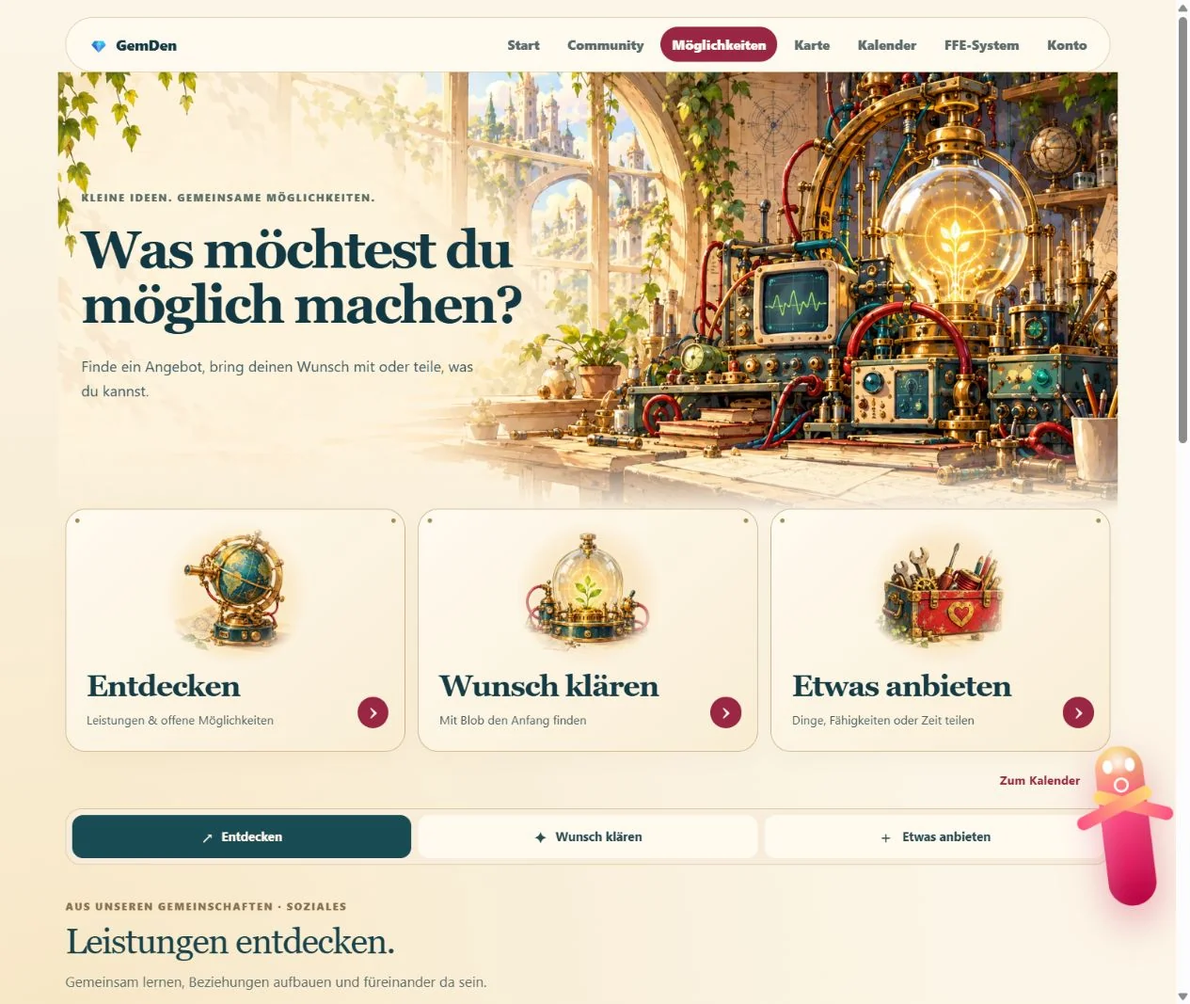
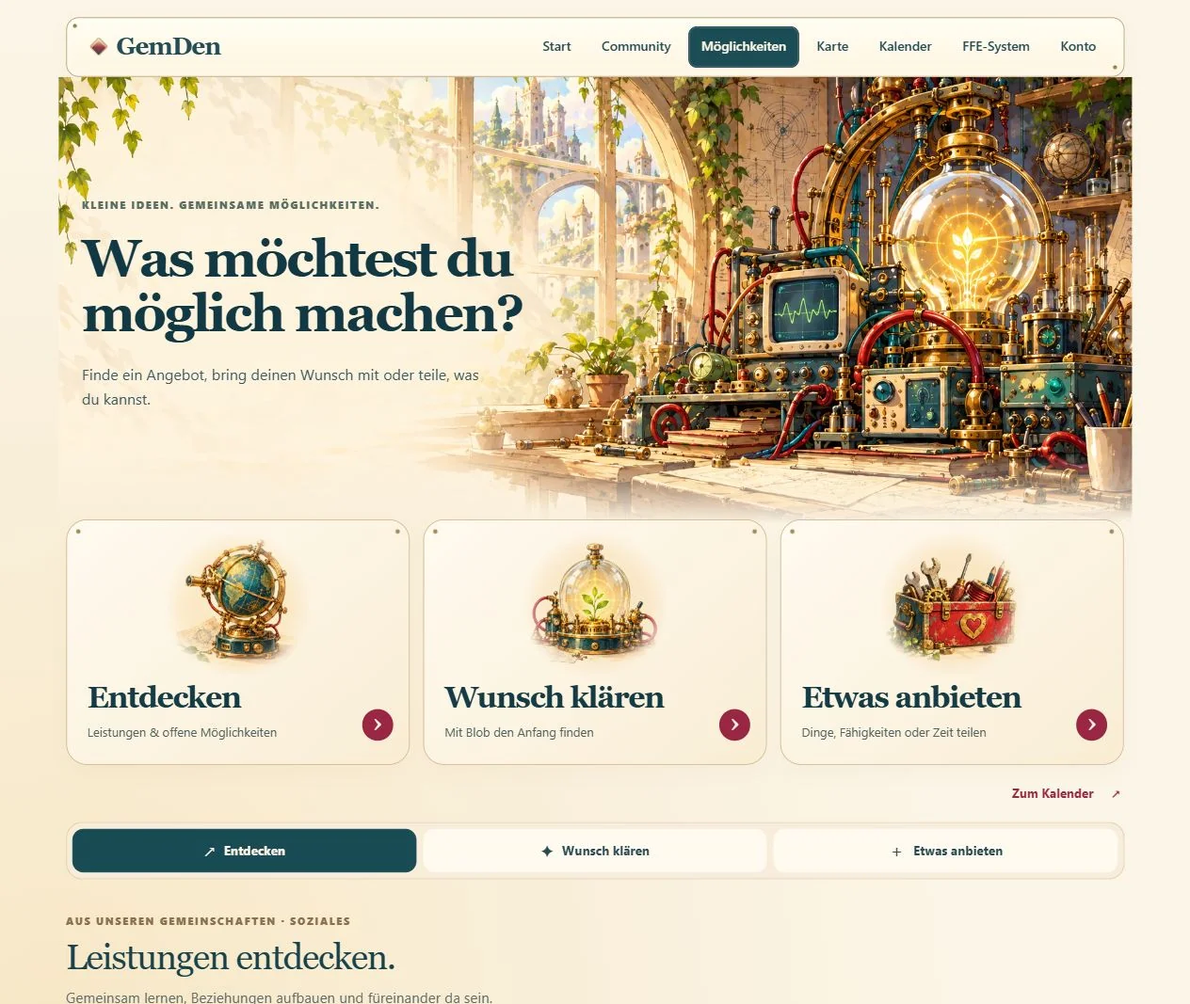
Community-Bildwelt großzügiger gestalten und Hauptmenüs abstimmen

diff --git a/community/therme.css b/community/therme.css
@@ -1,15 +1,190 @@
-/* Die schwebende Therme: eine Bildwelt für die Community. */
-.community-overview{--community-ink:#254e48;--community-muted:#5c7169;--community-line:#d8ded0;--ruby:#8b2d4a;--ruby-deep:#70213b;background:radial-gradient(ellipse at 90% 48%,#e7eeE4,transparent 50rem),#faf6eb;color:var(--community-ink)}
-.community-overview .site-shell{max-width:1240px}.community-overview .site-nav{position:relative;z-index:2;margin-bottom:0;background:#fffdf5e8;border-color:#dbddcd}.community-overview .site-mark{color:var(--community-ink)}
-.community-hero{position:relative;isolation:isolate;display:flex;align-items:center;min-height:580px;padding:65px 30px 72px;margin:0 -12px}.community-hero-art{position:absolute;inset:0 -30px;z-index:-1;pointer-events:none;mask-image:linear-gradient(#000 85%,transparent)}.community-hero-art img{width:100%;height:100%;display:block;object-fit:cover;object-position:center}.community-hero-copy{max-width:440px;min-width:0}.community-hero-copy .eyebrow{margin:0 0 18px;color:#5b776b;letter-spacing:.19em;font-size:.72rem}.community-hero-copy h1{font:500 clamp(3.4rem,5.1vw,4.7rem)/1.01 Georgia,serif;letter-spacing:-.055em;margin:0 0 23px;color:var(--community-ink)}.community-hero-copy>p:not(.eyebrow){max-width:350px;font-size:.96rem;line-height:1.7;margin:0 0 24px;color:#4f655c}.community-hero-copy .button-row{gap:9px}.community-overview .community-hero-copy .button{min-height:46px;padding:12px 17px;border-radius:13px;font-size:.79rem;box-shadow:0 7px 18px #70213b12;background:#8b2d4a;color:#fff9ed;gap:12px}.community-overview .community-hero-copy .button.secondary{border:1px solid #bfcbbc;background:#fffdf4d9;color:var(--community-ink);box-shadow:none}.community-hero-copy .button:hover{background:#70213b}.community-overview .community-hero-copy .button.secondary:hover{background:#e6eddf}
-.community-portals{display:grid;grid-template-columns:repeat(4,minmax(0,1fr));gap:13px;position:relative;margin:0 0 30px;scroll-margin-top:22px}.community-portal{display:grid;grid-template-rows:112px 1fr;position:relative;gap:16px;padding:18px 19px 23px;border:1px solid #d9ddcd;border-radius:27px;background:#fffdf4;box-shadow:0 12px 28px #31594a06;text-decoration:none;color:var(--community-ink);min-width:0;transition:border-color .16s,transform .16s}.community-portal:hover{border-color:#789581;transform:translateY(-3px)}.community-portal-art{display:block;overflow:hidden;position:relative;border-radius:50%;width:100%;max-width:200px;height:112px;justify-self:center;background:#e6e6d5}.community-portal-art img{display:block;width:100%;height:100%;object-fit:cover}.portal-kieze .community-portal-art img{width:195%;max-width:none;object-position:right;transform:translateX(-47%)}.portal-dynastien .community-portal-art{background:#f0e5d8}.portal-dynastien .community-portal-art img{object-position:center 55%}.portal-leistungen .community-portal-art img{object-position:center 45%}.portal-menschen .community-portal-art img{object-position:75% 12%;height:230%;max-height:none}.community-portal-copy{display:grid;align-content:start;gap:8px;min-width:0}.community-portal-copy strong{font:500 clamp(1.55rem,2.2vw,2rem)/1.15 Georgia,serif;letter-spacing:-.03em}.community-portal-copy>span{font-size:.8rem;line-height:1.55;max-width:195px}.community-portal-copy small{font-size:.69rem;color:#697a6c;line-height:1.5;padding-top:3px;padding-right:10px}.community-portal-arrow{position:absolute;bottom:20px;right:15px;font-size:1.05rem;color:#71836a}
-.community-sections{top:8px;margin-bottom:4px;border-color:#d8dece;background:#e9eee3eb;backdrop-filter:blur(12px)}.community-sections a{background:#fffdf5;color:var(--community-ink)}.community-overview .section{padding-top:42px}.community-overview .section-head .eyebrow{color:#6c826c}.community-overview .section-head h2{font-weight:400}.community-overview .section-head p:not(.eyebrow){color:var(--community-muted)}.community-kiez-card{border-color:#d4ddc9;background:#e5ebdb}.community-kiez-card-travel{border-color:#e2d3b8;background:#f1e4cc}.community-location,.community-member,.community-overview .service-card{background:#fffdf4;border-color:#d9dece}.community-dynasty{background:#82324b;border-color:#82324b}.community-dynasty-main:hover{background:#743044}.community-dynasty-service{background:#742940}.community-overview .service-category{color:#476c58;background:#e5ecde}.community-service-routes a{background:#edf0e4}.community-overview .community-background{padding-top:12px}.community-overview .source-fold{background:#f4f2e8;border-color:#d9dece}.community-overview .footer{border-color:#d9dece}
-.community-hero-art:after{content:"";position:absolute;inset:0;background:linear-gradient(90deg,#faf6eb80,transparent 55%)}
-@media(min-width:761px){.community-hero{overflow:clip}}
-@media(min-width:1500px){.community-hero-art{inset:0 -65px}}
-@media(max-width:1000px) and (min-width:761px){.community-hero{min-height:525px;padding:54px 18px}.community-hero-copy{max-width:380px}.community-hero-copy h1{font-size:3.6rem}.community-hero-copy>p:not(.eyebrow){max-width:305px;font-size:.9rem}.community-hero-art:after{content:"";position:absolute;inset:0;background:linear-gradient(90deg,#faf6ebaa,transparent 62%)}.community-portal{padding:15px 13px 20px;gap:13px;grid-template-rows:88px 1fr;border-radius:23px}.community-portal-art{height:88px}.community-portal-copy strong{font-size:1.6rem}.community-portal-copy>span{font-size:.74rem}.community-portal-copy small{font-size:.65rem}.community-portals{gap:9px}}
-@media(max-width:760px){.community-overview .site-shell{padding-left:18px;padding-right:18px}.community-hero{display:flex;flex-direction:column;align-items:stretch;min-height:0;padding:0;margin:0 0 25px}.community-hero-art{position:relative;inset:auto;z-index:auto;height:310px;margin:0 -18px;mask-image:linear-gradient(#000 78%,transparent)}.community-hero-art img{object-fit:cover;object-position:center 44%}.community-hero-copy{max-width:100%;padding:0 6px;margin-top:-14px;position:relative}.community-hero-copy h1{font-size:clamp(2.9rem,7vw,3.8rem);line-height:1.02;margin-bottom:17px;letter-spacing:-.05em}.community-hero-copy .eyebrow{font-size:.66rem;margin-bottom:14px}.community-hero-copy>p:not(.eyebrow){font-size:.9rem;line-height:1.65;max-width:400px;margin-bottom:19px}.community-overview .community-hero-copy .button{padding:12px 14px;font-size:.76rem}.community-portals{grid-template-columns:1fr 1fr;gap:12px;margin-bottom:24px}.community-portal{grid-template-rows:105px 1fr;padding:15px 17px 21px;gap:12px;border-radius:23px}.community-portal-art{height:105px}.community-portal-copy strong{font-size:1.8rem}.community-portal-copy>span{font-size:.79rem}.community-portal-copy small{font-size:.68rem}.community-overview .section{padding-top:32px}}
-@media(max-width:480px){.community-hero-art{height:262px}.community-hero-copy{padding:0 4px}.community-hero-copy h1{font-size:clamp(2.55rem,11.7vw,3.3rem)}.community-portals{grid-template-columns:1fr;gap:9px}.community-portal{grid-template-columns:91px minmax(0,1fr) 14px;grid-template-rows:auto;align-items:center;gap:15px;padding:15px 17px 15px 13px;border-radius:22px;min-height:112px}.community-portal-art{height:72px;width:91px}.community-portal-copy{gap:5px}.community-portal-copy strong{font-size:1.6rem}.community-portal-copy>span{font-size:.75rem;line-height:1.45}.community-portal-copy small{font-size:.64rem;padding:0}.community-portal-arrow{position:static;font-size:1.1rem}.community-overview .section{padding-top:27px}.community-sections{top:5px;margin-bottom:2px}.community-overview .source-fold{padding:14px 16px}}
-@media(max-width:359px){.community-hero-art{height:230px}.community-hero-copy>p:not(.eyebrow){font-size:.85rem}.community-hero-copy .button-row{gap:8px}.community-overview .community-hero-copy .button{font-size:.69rem;padding:11px 12px;gap:8px}.community-portal{grid-template-columns:72px minmax(0,1fr) 12px;gap:11px;padding:13px 12px;min-height:104px}.community-portal-art{width:72px;height:66px}.community-portal-copy strong{font-size:1.5rem}.community-portal-copy>span{font-size:.71rem}.community-portal-copy small{font-size:.61rem}}
-@media(max-width:760px){.community-hero-art:after{display:none}}
-@media(prefers-reduced-motion:reduce){.community-portal{transition:none}.community-portal:hover{transform:none}}
+/* Die schwebende Therme: Panorama und bebilderte Wege durch die Community. */
+.community-overview {
+  --community-ink:#254e48; --community-muted:#526b62; --community-line:#ced7bf;
+  --ink:#254e48; --muted:#526b62; --line:#ced7bf; --ruby:#8b2d4a; --ruby-deep:#70213b;
+  background:linear-gradient(180deg,#faf3e5 0%,#edf1e6 43%,#faf2e1 100%);
+  color:var(--community-ink);
+}
+.community-overview .site-shell {width:min(1560px,100%);max-width:none;padding:18px 32px 100px}
+.community-overview .site-nav {margin-bottom:0;position:relative;z-index:2}
+.community-hero {position:relative;isolation:isolate;display:flex;align-items:center;min-height:640px;padding:64px 42px 90px;margin:0 -20px}
+.community-hero-art {position:absolute;inset:0 -20px;z-index:-1;pointer-events:none;mask-image:linear-gradient(#000 88%,transparent)}
+.community-hero-art img {display:block;width:100%;height:100%;object-fit:cover;object-position:64% center}
+.community-hero-art:after {content:"";position:absolute;inset:0;background:linear-gradient(90deg,#faf3e52e,transparent 45%)}
+.community-hero-copy {max-width:470px;min-width:0;position:relative}
+.community-hero-copy .eyebrow {margin:0 0 18px;color:#4f6b5d;letter-spacing:.18em;font-size:.74rem}
+.community-hero-copy h1 {font:500 clamp(3.5rem,5vw,4.9rem)/1.02 Georgia,serif;letter-spacing:-.055em;color:var(--community-ink);margin:0 0 23px}
+.community-hero-copy>p:not(.eyebrow) {max-width:370px;font-size:1rem;line-height:1.7;margin:0 0 25px;color:#435f55}
+.community-hero-copy .button-row {gap:10px}
+.community-overview .community-hero-copy .button {min-height:47px;padding:13px 18px;border-radius:12px;font-size:.83rem;background:#8b2d4a;color:#fff9ed;box-shadow:0 6px 18px #70213b10;gap:12px}
+.community-overview .community-hero-copy .button.secondary {background:#fffaf0e8;color:#254e48;border:1px solid #a7b797;box-shadow:none}
+.community-overview .community-hero-copy .button:hover {background:#70213b}
+.community-overview .community-hero-copy .button.secondary:hover {background:#e5eddd}
+.community-portals {position:relative;display:grid;grid-template-columns:repeat(4,minmax(0,1fr));gap:16px;margin:-26px 0 28px;scroll-margin-top:24px}
+.community-portal {position:relative;display:grid;grid-template-rows:180px 1fr;gap:0;padding:0;border:1px solid #c4cfb3;border-radius:25px;overflow:hidden;background:#fffaf0;box-shadow:0 10px 26px #36543c0b;color:#254e48;text-decoration:none;min-width:0;transition:transform .16s,border-color .16s}
+.community-portal:hover {transform:translateY(-3px);border-color:#6f8b69}
+.community-portal-art {display:block;position:relative;width:100%;height:180px;overflow:hidden;background:#d6e2d0}
+.community-portal-art img {display:block;width:100%;height:100%;object-fit:cover}
+.portal-kieze .community-portal-art img {object-position:right center}
+.portal-dynastien .community-portal-art img {object-position:center 55%}
+.portal-leistungen .community-portal-art img {object-position:center 72%}
+.portal-menschen .community-portal-art img {object-position:center 14%}
+.community-portal-copy {display:grid;align-content:start;gap:9px;min-width:0;padding:21px 22px 26px}
+.community-portal-copy strong {font:500 clamp(1.6rem,2.5vw,2.15rem)/1.12 Georgia,serif;letter-spacing:-.035em}
+.community-portal-copy>span {font-size:.88rem;line-height:1.55;padding-right:5px}
+.community-portal-copy small {font-size:.76rem;line-height:1.5;color:#5c725f;padding:4px 17px 0 0}
+.community-portal-arrow {position:absolute;bottom:22px;right:17px;font-size:1.1rem;color:#526f55}
+.community-sections {max-width:1400px;margin:0 auto 4px;top:8px;padding:6px;border:1px solid #b5c09f;background:#e7ecdcf5;backdrop-filter:blur(10px);border-radius:17px}
+.community-sections a {border-radius:11px;background:#fffaf0;font-size:.88rem;font-weight:650;color:#315c4e}
+.community-sections a:hover {background:#d3e0c9}
+.community-overview .section {max-width:1400px;margin-inline:auto;padding-top:44px;scroll-margin-top:92px}
+.community-overview .section-head {margin-bottom:22px}
+.community-overview .section-head h2 {font-weight:400}
+.community-overview .section-head .eyebrow {color:#647953}
+.community-overview .section-head p:not(.eyebrow) {color:#526b62;max-width:760px}
+.community-neighborhoods {gap:18px}
+.community-kiez-card {grid-template-columns:minmax(0,.9fr) minmax(0,1.2fr);gap:0;padding:0;min-height:238px;border-radius:26px;border-color:#bfceaf;background:#e2ebd8;overflow:hidden}
+.community-kiez-card-travel {background:#f2e4c9;border-color:#d7c098;color:#675135}
+.community-kiez-card .community-card-art {display:block;position:relative;align-self:stretch;width:100%;height:auto;min-height:238px}
+.community-kiez-card .community-card-art img {position:absolute;inset:0;display:block;width:100%;height:100%;object-fit:cover;object-position:right center}
+.community-kiez-card-travel .community-card-art img {object-position:center 53%}
+.community-kiez-card .community-card-copy {padding:27px 25px;gap:12px}
+.community-kiez-card .community-card-copy h3 {font-size:2rem}
+.community-kiez-card .community-card-copy>span {font-size:.91rem}
+.community-kiez-card .community-card-copy>b {font-size:.85rem}
+.community-location {margin-top:15px;padding:20px 24px;border-radius:19px;border-color:#c8d1b9;background:#fff8e9;min-height:76px}
+.community-location strong {font-size:1.45rem}
+.community-location small {font-size:.84rem}
+.community-dynasty {border-radius:28px;border-color:#87425a;background:#82324b}
+.community-dynasty-main {grid-template-columns:1fr 1fr;min-height:280px;gap:0;padding:0}
+.community-dynasty-main:hover {background:#762c43}
+.community-dynasty-main .community-card-copy {padding:38px;gap:16px}
+.community-dynasty-main .community-card-copy h3 {font-size:clamp(2.5rem,4vw,3.6rem)}
+.community-dynasty-main .community-card-copy>span {font-size:1rem;color:#fae8e4}
+.community-dynasty-main .community-card-copy>b {font-size:.9rem}
+.community-ruby-art {display:block;position:relative;align-self:stretch;min-height:280px;overflow:hidden}
+.community-ruby-art img {position:absolute;inset:0;display:block;width:100%;height:100%;object-fit:cover;object-position:center 55%;mask-image:linear-gradient(90deg,transparent,#000 18%)}
+.community-dynasty-service {padding:12px 30px;background:#6c253d}
+.community-dynasty-service>span {font-size:.83rem}
+.community-dynasty-service a {font-size:.95rem}
+.community-overview #leistungen {margin-top:38px;padding:32px;border:1px solid #c6d3b8;border-radius:29px;background:linear-gradient(125deg,#e3eddb,#fbf4e5)}
+.community-overview .service-card {background:#fffaf0;border-color:#d1d2b9;border-radius:23px}
+.community-overview .service-category {background:#e1ead7;color:#456540}
+.community-service-routes {gap:9px}
+.community-service-routes a {background:#fff9ec;border-color:#bbc8ab;min-height:46px;font-size:.84rem}
+.community-member {background:#fffaf0;border-color:#c7d1b5;padding:26px;border-radius:24px}
+.community-member-art {padding:4px;border-radius:50%;background:#e6eddb}
+.community-own-page {padding:29px 30px;margin-top:17px;background:#e4ecda;border:1px solid #c8d3b9;border-radius:25px}
+.community-own-page strong {font-size:1.65rem}
+.community-own-page p {font-size:.94rem}
+.community-own-page .button {background:#8b2d4a;color:#fff9ed;border-color:#8b2d4a}
+.community-own-page .button.secondary {background:#fffaf0;color:#254e48;border-color:#b1bf9d}
+.community-overview .community-background {padding-top:28px}
+.community-overview .source-fold {background:#f9f3e6;border-color:#c9cfb5}
+.community-overview .footer {max-width:1400px;margin-inline:auto;border-color:#b9c6a7}
+@media(min-width:761px) {.community-hero{overflow:clip}}
+@media(min-width:1450px) {.community-hero{min-height:690px}}
+@media(max-width:1100px) and (min-width:761px) {
+  .community-overview .site-shell{padding-inline:22px}
+  .community-hero{min-height:570px;padding:52px 27px 78px;margin-inline:-12px}
+  .community-hero-copy{max-width:390px}
+  .community-hero-copy h1{font-size:3.7rem}
+  .community-hero-copy>p:not(.eyebrow){max-width:320px;font-size:.94rem}
+  .community-hero-art:after{background:linear-gradient(90deg,#faf3e577,transparent 62%)}
+  .community-portals{grid-template-columns:repeat(2,minmax(0,1fr));gap:15px}
+  .community-portal{grid-template-rows:170px 1fr}
+  .community-portal-art{height:170px}
+  .community-portal-copy{padding:20px 22px}
+  .community-kiez-card{grid-template-columns:minmax(0,.8fr) minmax(0,1.1fr)}
+  .community-kiez-card .community-card-copy{padding:23px 19px}
+  .community-kiez-card .community-card-copy h3{font-size:1.8rem}
+  .community-kiez-card .community-card-copy>span{font-size:.85rem}
+}
+@media(max-width:760px) {
+  .community-overview .site-shell{padding:10px 14px 100px}
+  .community-hero{display:flex;flex-direction:column;align-items:stretch;min-height:0;padding:0;margin:0 0 31px}
+  .community-hero-art{position:relative;inset:auto;z-index:auto;height:405px;margin:0 -14px;mask-image:linear-gradient(#000 64%,#000b 78%,transparent)}
+  .community-hero-art img{object-position:center 47%}
+  .community-hero-art:after{display:none}
+  .community-hero-copy{position:relative;max-width:560px;padding:0 7px;margin-top:-87px}
+  .community-hero-copy .eyebrow{font-size:.67rem;letter-spacing:.14em;margin-bottom:13px;display:table;padding:5px 8px;margin-left:-8px;border-radius:6px;background:#faf3e5eb}
+  .community-hero-copy h1{font-size:clamp(2.7rem,10.8vw,3.8rem);line-height:1.02;margin-bottom:18px}
+  .community-hero-copy>p:not(.eyebrow){max-width:450px;font-size:.94rem;line-height:1.65;margin-bottom:20px}
+  .community-hero-copy .button-row{display:grid;grid-template-columns:1.15fr .85fr;gap:9px}
+  .community-overview .community-hero-copy .button{width:100%;padding:12px 10px;min-height:47px;font-size:.78rem;gap:7px;justify-content:center}
+  .community-portals{grid-template-columns:repeat(2,minmax(0,1fr));gap:12px;margin:0 0 24px}
+  .community-portal{grid-template-rows:136px 1fr;border-radius:21px}
+  .community-portal-art{height:136px}
+  .community-portal-copy{padding:16px 14px 21px;gap:8px}
+  .community-portal-copy strong{font-size:1.65rem}
+  .community-portal-copy>span{font-size:.82rem;padding:0}
+  .community-portal-copy small{font-size:.73rem;padding:2px 9px 0 0}
+  .community-portal-arrow{bottom:15px;right:12px;font-size:.98rem}
+  .community-sections{top:5px;gap:4px;padding:5px;border-radius:14px}
+  .community-sections a{min-height:46px;padding:9px 3px;font-size:.77rem;border-radius:9px}
+  .community-overview .section{padding-top:33px}
+  .community-neighborhoods{grid-template-columns:1fr;gap:14px}
+  .community-kiez-card{grid-template-columns:minmax(0,.7fr) minmax(0,1.1fr);min-height:206px}
+  .community-kiez-card .community-card-art{width:100%;min-height:206px;justify-self:stretch}
+  .community-kiez-card .community-card-copy{padding:22px 20px;gap:10px}
+  .community-kiez-card .community-card-copy h3{font-size:1.85rem}
+  .community-kiez-card .community-card-copy>span{font-size:.85rem;line-height:1.6}
+  .community-kiez-card .community-card-copy>b{font-size:.8rem}
+  .community-location{padding:18px 20px}
+  .community-location strong{font-size:1.35rem}
+  .community-location small{font-size:.8rem}
+  .community-dynasty-main{grid-template-columns:1fr;min-height:0}
+  .community-ruby-art{order:-1;height:195px;min-height:195px}
+  .community-ruby-art img{mask-image:linear-gradient(#000 88%,transparent);object-position:center 58%}
+  .community-dynasty-main .community-card-copy{padding:25px;gap:12px}
+  .community-dynasty-main .community-card-copy h3{font-size:2.55rem}
+  .community-dynasty-main .community-card-copy>span{font-size:.93rem}
+  .community-dynasty-service{padding:12px 24px;gap:3px}
+  .community-dynasty-service>span{font-size:.78rem}
+  .community-overview #leistungen{margin-top:29px;padding:25px 19px;border-radius:24px}
+  .community-overview .service-card{padding:21px}
+  .community-service-routes a{font-size:.79rem}
+  .community-member{padding:21px;gap:16px}
+  .community-own-page{padding:24px;margin-top:14px}
+  .community-own-page strong{font-size:1.5rem}
+  .community-own-page p{font-size:.88rem}
+  .community-own-page .button-row{width:100%}
+  .community-own-page .button{font-size:.82rem}
+}
+@media(max-width:480px) {
+  .community-hero-art{height:370px}
+  .community-hero-copy{margin-top:-75px;padding-inline:5px}
+  .community-hero-copy h1{font-size:clamp(2.55rem,11.3vw,3.1rem)}
+  .community-hero-copy>p:not(.eyebrow){font-size:.9rem}
+  .community-overview .community-hero-copy .button{font-size:.73rem;padding-inline:8px}
+  .community-portal{grid-template-rows:119px 1fr}
+  .community-portal-art{height:119px}
+  .community-portal-copy{padding:15px 13px 20px;gap:7px}
+  .community-portal-copy strong{font-size:1.43rem}
+  .community-portal-copy>span{font-size:.8rem}
+  .community-portal-copy small{font-size:.71rem}
+}
+@media(max-width:359px) {
+  .community-hero-art{height:335px}
+  .community-hero-copy{margin-top:-65px;padding-inline:3px}
+  .community-hero-copy h1{font-size:2.5rem}
+  .community-hero-copy .eyebrow{font-size:.62rem}
+  .community-hero-copy>p:not(.eyebrow){font-size:.87rem}
+  .community-overview .community-hero-copy .button{font-size:.67rem;gap:4px;padding-inline:5px}
+  .community-portals{gap:9px}
+  .community-portal{grid-template-rows:105px 1fr;border-radius:18px}
+  .community-portal-art{height:105px}
+  .community-portal-copy{padding:13px 11px 18px}
+  .community-portal-copy strong{font-size:1.28rem}
+  .community-portal-copy>span{font-size:.76rem}
+  .community-portal-copy small{font-size:.68rem}
+  .community-sections a{font-size:.7rem}
+  .community-kiez-card .community-card-copy{padding:21px 15px}
+  .community-kiez-card .community-card-copy h3{font-size:1.6rem}
+  .community-kiez-card .community-card-copy>span{font-size:.81rem}
+  .community-member{padding:18px}
+}
+@media(prefers-reduced-motion:reduce) {
+  .community-portal{transition:none}
+  .community-portal:hover{transform:none}
+}

diff --git a/community/index.html b/community/index.html
@@ -10,7 +10,8 @@
   <link rel="stylesheet" href="../assets/worlds.css?v=20261019-1">
   <link rel="stylesheet" href="../assets/services.css?v=20261014-1">
   <link rel="stylesheet" href="./overview.css?v=20261020-1">
-  <link rel="stylesheet" href="./therme.css?v=20261020-1">
+  <link rel="stylesheet" href="./therme.css?v=20261020-2">
+  <link rel="stylesheet" href="../assets/scene-navigation.css?v=20261020-1">
 </head>
 <body class="world-community community-overview" data-area="community" data-blob-mode="social">
   <a class="skip-link" href="#inhalt">Zum Inhalt</a>
@@ -20,7 +21,7 @@
       <header class="community-hero">
         <picture class="community-hero-art" aria-hidden="true">
           <source media="(max-width:760px)" srcset="../assets/community/floating-garden-mobile-480.webp 480w, ../assets/community/floating-garden-mobile-800.webp 800w" sizes="100vw" width="800" height="1000">
-          <img src="../assets/community/floating-garden-desktop-1200.webp" srcset="../assets/community/floating-garden-desktop-1200.webp 1200w, ../assets/community/floating-garden-desktop-1860.webp 1860w" sizes="(max-width:1200px) 100vw, 1200px" width="1860" height="845" alt="" fetchpriority="high">
+          <img src="../assets/community/floating-garden-desktop-1200.webp" srcset="../assets/community/floating-garden-desktop-1200.webp 1200w, ../assets/community/floating-garden-desktop-1860.webp 1860w" sizes="(max-width:1560px) 100vw, 1560px" width="1860" height="845" alt="" fetchpriority="high">
         </picture>
         <div class="community-hero-copy">
           <p class="eyebrow">Unsere Community</p>
@@ -31,7 +32,7 @@
       </header>
       <nav class="community-portals" id="community-entdecken" aria-label="Dein Weg in die Community">
         <a class="community-portal portal-kieze" href="#kieze">
-          <span class="community-portal-art" aria-hidden="true"><img src="../assets/community/floating-garden-desktop-1200.webp" alt="" width="1200" height="545" loading="lazy"></span>
+          <span class="community-portal-art" aria-hidden="true"><img src="../assets/community/floating-garden-desktop-480.webp" srcset="../assets/community/floating-garden-desktop-480.webp 480w, ../assets/community/floating-garden-desktop-1200.webp 1200w" sizes="(max-width:1100px) 50vw, 25vw" alt="" width="480" height="218" loading="lazy"></span>
           <span class="community-portal-copy"><strong>Kieze</strong><span>Nachbarschaft, die verbindet.</span><small>P‑Hain · Travelkiez</small></span><span class="community-portal-arrow" aria-hidden="true">↗</span>
         </a>
         <a class="community-portal portal-dynastien" href="#dynastien">
@@ -53,11 +54,11 @@
         <div class="section-head"><p class="eyebrow">Nachbarschaft im Alltag</p><h2 id="community-wege">Unsere Kieze.</h2></div>
         <div class="community-neighborhoods" aria-label="Kieze entdecken">
           <a class="community-kiez-card community-kiez-card-phain" href="./kieze/p-hain/" aria-labelledby="room-p-hain">
-            <span class="community-card-art" aria-hidden="true"><svg viewBox="0 0 400 240"><use href="../assets/world-scenes.svg#neighborhood"></use></svg></span>
+            <span class="community-card-art" aria-hidden="true"><img src="../assets/community/floating-garden-desktop-480.webp" srcset="../assets/community/floating-garden-desktop-480.webp 480w, ../assets/community/floating-garden-desktop-1200.webp 1200w" sizes="(max-width:760px) 40vw, 25vw" width="480" height="218" alt="" loading="lazy"></span>
             <div class="community-card-copy"><h3 id="room-p-hain">P‑Hain</h3><span>Nachbarn, Hilfe und das Wissen, das wir miteinander teilen.</span><b>Zum Kiez <span aria-hidden="true">↗</span></b></div>
           </a>
           <a class="community-kiez-card community-kiez-card-travel" href="./kieze/travelkiez/" aria-labelledby="room-travelkiez">
-            <span class="community-card-art" aria-hidden="true"><svg viewBox="0 0 400 240"><use href="../assets/world-scenes.svg#neighborhood"></use></svg></span>
+            <span class="community-card-art" aria-hidden="true"><img src="../assets/community/floating-garden-mobile-480.webp" width="480" height="600" alt="" loading="lazy"></span>
             <div class="community-card-copy"><h3 id="room-travelkiez">Travelkiez</h3><span>Begegnungen in Friedrichshain. Mit ThreeDen als gemeinsamem Ort.</span><b>Zum Kiez <span aria-hidden="true">↗</span></b></div>
           </a>
         </div>
@@ -69,7 +70,7 @@
         <article class="community-dynasty">
           <a class="community-dynasty-main" href="./dynastien/rubybubys/" aria-labelledby="room-rubybubys">
             <div class="community-card-copy"><h3 id="room-rubybubys">Rubybubys</h3><span>Freundschaft, Fähigkeiten und gemeinsame Vorhaben.</span><b>Gemeinschaft entdecken <span aria-hidden="true">↗</span></b></div>
-            <span class="community-ruby-art" aria-hidden="true"><svg viewBox="0 0 240 260"><use href="../assets/world-scenes.svg#ruby"></use></svg></span>
+            <span class="community-ruby-art" aria-hidden="true"><img src="../assets/rubybubys/tea-garden-mobile-480.webp" srcset="../assets/rubybubys/tea-garden-mobile-480.webp 480w, ../assets/rubybubys/tea-garden-mobile-800.webp 800w" sizes="(max-width:760px) 100vw, 50vw" width="800" height="533" alt="" loading="lazy"></span>
           </a>
           <div class="community-dynasty-service"><span>Eine Leistung der Rubybubys</span><a href="../leistungen/rubybubys-herz-und-schnauze/">Herz und Schnauze <span aria-hidden="true">↗</span></a></div>
         </article>

diff --git a/assets/scene-navigation.css b/assets/scene-navigation.css
@@ -1,0 +1,25 @@
+/* Gemeinsame Bedienung, passende Materialien für die beiden Bildwelten. */
+.community-overview{--scene-nav-paper:#fff9e9;--scene-nav-border:#b5b48b;--scene-nav-ink:#28584b;--scene-nav-active:#2c6052;--scene-nav-hover:#e6eddc;--scene-nav-gem:#5d8c6b;--scene-nav-radius:23px;--scene-nav-highlight:#faf5dd}
+.possibilities-page{--scene-nav-paper:#fff5e1;--scene-nav-border:#b89b62;--scene-nav-ink:#224c56;--scene-nav-active:#1c4c55;--scene-nav-hover:#f1e2c3;--scene-nav-gem:#a33846;--scene-nav-radius:13px;--scene-nav-highlight:#fffdf3}
+:is(.community-overview,.possibilities-page) .site-nav{position:relative;z-index:40;padding:9px 15px;gap:15px;border:1px solid var(--scene-nav-border);border-radius:var(--scene-nav-radius);background:linear-gradient(180deg,var(--scene-nav-highlight),var(--scene-nav-paper));box-shadow:inset 0 0 0 4px #ffffff55,0 5px 20px #5641250a;backdrop-filter:none}
+:is(.community-overview,.possibilities-page) .site-mark{gap:11px;padding:7px 12px;font:600 1.65rem/1.1 Georgia,serif;letter-spacing:-.05em;color:var(--scene-nav-ink);min-height:44px}
+:is(.community-overview,.possibilities-page) .site-mark:before{content:"";display:block;width:13px;height:13px;flex:none;transform:rotate(45deg);border:1px solid #bfa36a;background:linear-gradient(135deg,#fff4c0,var(--scene-nav-gem) 53%,var(--scene-nav-ink));box-shadow:inset 2px 2px 0 #fff6c980;border-radius:2px}
+:is(.community-overview,.possibilities-page) .site-nav .nav-links{gap:5px;align-items:center}
+:is(.community-overview,.possibilities-page) .site-nav .nav-links a{padding:11px 13px;min-height:44px;border:1px solid transparent;border-radius:9px;background:transparent;color:var(--scene-nav-ink);font:550 .86rem/1.3 ui-sans-serif,system-ui,sans-serif;letter-spacing:.005em}
+:is(.community-overview,.possibilities-page) .site-nav .nav-links a:hover{background:var(--scene-nav-hover);border-color:var(--scene-nav-border);color:var(--scene-nav-ink)}
+:is(.community-overview,.possibilities-page) .site-nav .nav-links a[aria-current=page]{background:var(--scene-nav-active);border-color:var(--scene-nav-active);color:#fff9e9;box-shadow:inset 0 0 0 1px #ffefb52e}
+.community-overview .site-nav .nav-links a{border-radius:12px}
+.possibilities-page .site-nav:before,.possibilities-page .site-nav:after{content:"";position:absolute;width:4px;height:4px;border-radius:50%;background:#a8874b;box-shadow:inset 0 1px 1px #6a4f2a77;pointer-events:none}
+.possibilities-page .site-nav:before{top:7px;left:7px}.possibilities-page .site-nav:after{bottom:7px;right:7px}
+:is(.community-overview,.possibilities-page) .nav-toggle{padding:9px 13px;border:1px solid var(--scene-nav-border);border-radius:10px;background:var(--scene-nav-paper);color:var(--scene-nav-ink);box-shadow:inset 0 1px 0 #fff;font:650 .85rem/1.3 ui-sans-serif,system-ui,sans-serif}
+:is(.community-overview,.possibilities-page) .nav-toggle[aria-expanded=true]{background:var(--scene-nav-active);border-color:var(--scene-nav-active);color:#fff9e9}
+:is(.community-overview,.possibilities-page) .site-nav :focus-visible{outline:3px solid #9d773d;outline-offset:3px}
+@media(max-width:1100px) and (min-width:861px){:is(.community-overview,.possibilities-page) .site-nav{padding-inline:11px;gap:8px}:is(.community-overview,.possibilities-page) .site-mark{font-size:1.5rem;padding-inline:7px}:is(.community-overview,.possibilities-page) .site-nav .nav-links{gap:2px}:is(.community-overview,.possibilities-page) .site-nav .nav-links a{padding:10px 9px;font-size:.8rem}}
+@media(max-width:860px){
+  :is(.community-overview,.possibilities-page) .site-nav{padding:8px 10px;gap:8px;margin-bottom:0}
+  :is(.community-overview,.possibilities-page) .site-mark{font-size:1.5rem;padding:6px 7px;gap:9px}
+  :is(.community-overview,.possibilities-page) .site-nav .nav-links{grid-template-columns:repeat(2,minmax(0,1fr));gap:7px;padding:10px 1px 2px;border-top:1px solid var(--scene-nav-border);margin-top:3px}
+  :is(.community-overview,.possibilities-page) .site-nav .nav-links a{grid-column:auto;display:flex;justify-content:center;align-items:center;min-height:46px;padding:11px 9px;border-color:#b5ad8b55;background:#ffffff60;font-size:.86rem;line-height:1.35}
+  :is(.community-overview,.possibilities-page) .site-nav .nav-links a:last-child{grid-column:1/-1}
+}
+@media(prefers-reduced-motion:reduce){:is(.community-overview,.possibilities-page) .site-nav *{transition:none}}

diff --git a/leistungen/index.html b/leistungen/index.html
@@ -12,6 +12,7 @@
   <link rel="stylesheet" href="../assets/services.css?v=20261014-1">
   <link rel="stylesheet" href="./moeglichkeiten.css?v=20261020-1">
   <link rel="stylesheet" href="./erfinderwerkstatt.css?v=20261020-1">
+  <link rel="stylesheet" href="../assets/scene-navigation.css?v=20261020-1">
 </head>
 <body class="world-workshop possibilities-page" data-area="matching" data-blob-mode="sales">
   <a class="skip-link" href="#inhalt">Zum Inhalt</a>
